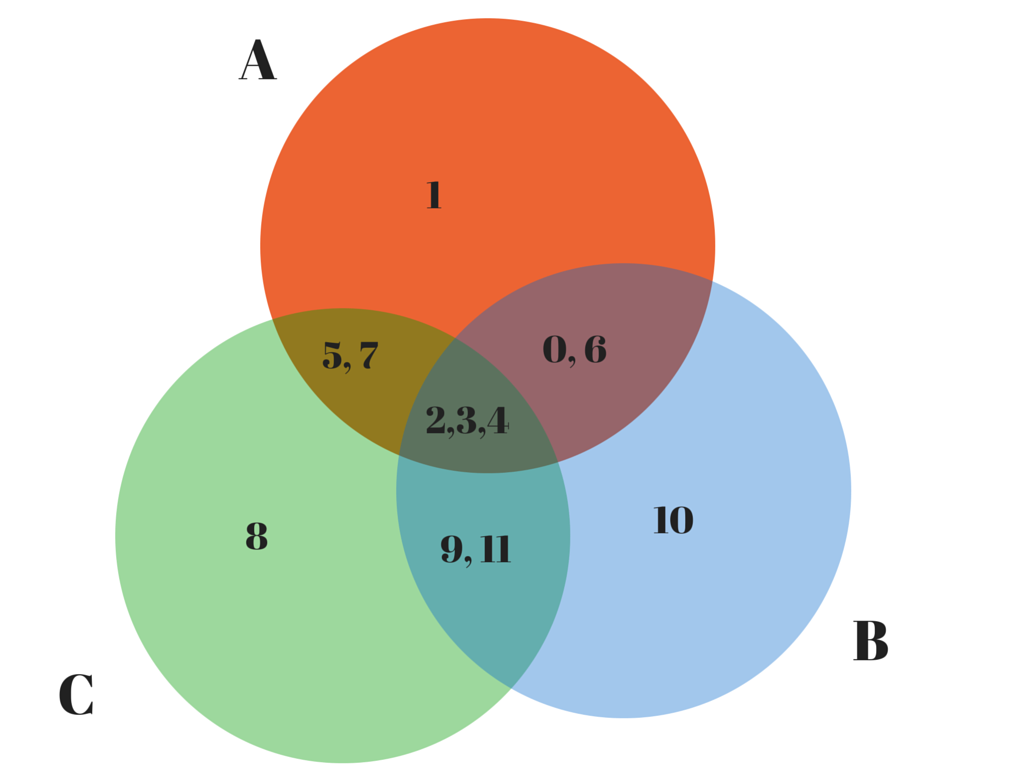
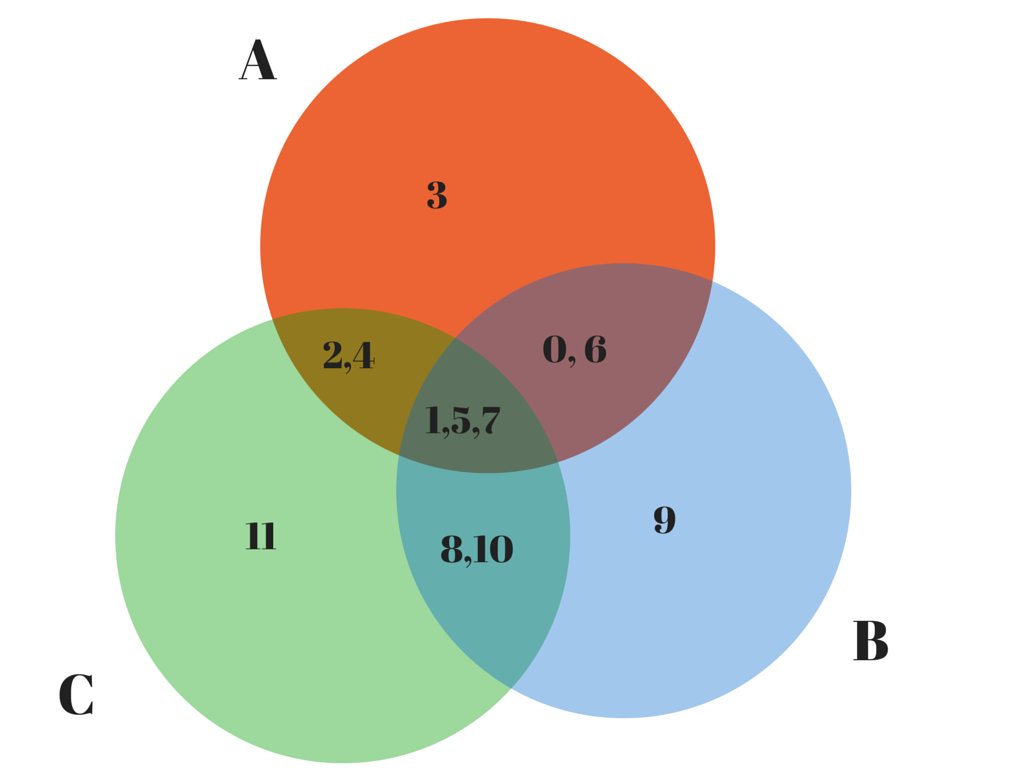
Update documentation to reflect permuted solution.

diff --git a/README.md b/README.md
@@ -17,27 +17,22 @@ that function against all 24 possible configurations.
 
 The solution documented in solution.go is a very pleasing solution.
 
-Unlike the other attempts, this solution only requires 3 weighings and these weighings are sufficient to discriminate the 24 different possibilities for a given input configuration.
-
-    package main
-
-    // Decide returns the identity of the counterfeit coin and what the relative
-    // weight of that coin is with respect to any other coin.
+Unlike the other attempts, this solution only requires 3 weighings and these weighings are sufficient to discriminate the 24 different possibilities for any given input configuration.
 
     var (
-        coins   = []int{0, 4, 5, 1, 7, 2, 6, 3, 11, 10, 9, 8}
         weights = []Weight{
-            light, heavy, heavy, light,
-            heavy, light, heavy, light,
-            light, heavy, light, heavy,
+            light, heavy, heavy,
+            light, heavy, light,
+            heavy, light, light,
+            heavy, light, heavy,
         }
     )
 
-    // The simplest possible solution. 3 comparisons + 2 table lookup, deals with every case.
     func decide(scale Scale) (int, Weight) {
-        a := scale.Weigh([]int{0, 1, 2, 3}, []int{4, 5, 6, 7})   // 8,9,10,11
-        b := scale.Weigh([]int{0, 6, 9, 11}, []int{2, 3, 4, 10}) // 1,5,7,8
-        c := scale.Weigh([]int{2, 4, 7, 11}, []int{3, 5, 8, 9})  // 0,1,6,10
+
+        a := scale.Weigh([]int{0, 3, 5, 7}, []int{1, 2, 4, 6})
+        b := scale.Weigh([]int{0, 6, 8, 10}, []int{1, 5, 7, 9})
+        c := scale.Weigh([]int{1, 4, 5, 8}, []int{2, 7, 10, 11})
 
         i := a*9 + b*3 + c
         o := i
@@ -45,7 +40,8 @@ Unlike the other attempts, this solution only requires 3 weighings and these wei
         if i > 12 {
             o = 26 - i
         }
-        f := coins[o-1]
+
+        f := int(o - 1)
         w := weights[o-1]
 
         if i > 12 {
@@ -55,11 +51,24 @@ Unlike the other attempts, this solution only requires 3 weighings and these wei
         return f, w
     }
 
+The following Venn diagram, which shows the intersections between the sets of cois involved in all 3 weighings, helps to provide a heuristic justification for why this set of weighings is capable of discriminating the 24 cases - each weighing involves overlapping
+set and subsets of coins and the 12 coins are evenly distributed across all sets and all intersections between all sets.
+
 <img src="venn.png"/>
 
-Some notes about the solution:
+Some observations:
 
-- 3 weighings share 3 coins {2,3,4}
+- 3 weighings share 3 coins {1,5,7}
 - each weighing shares a different 2 coins with each other weighing
 - each weighing puts one pair on the same side of the scale, and splits the other pair across both sides of the scale
 - each weighing has 3 coins that are unique to itself
+
+#Explanation
+
+If the B and C weighings are balanced, then the A weighing must be unbalanced because of the coin unique to A - namely 3.
+
+If the A and B weighings are unbalanced and the C weighing is balanced, then the cause must be a coin that is common to A and B and not shared by C, namely 0 or 6. If the A and B weighings have the same bias, then the counterfeit coin must be 0, otherwise it is 6.
+
+If the A, B and C weighings are unbalanced, then the cause must be a coin that is common to A, B and C - namely 1,5 or 7. If the A, B and C weighings have the same bias, then the counterfeit is 5. If B and C have the same bias, then the counterfeit is 1. If A and B have the same bias, then the counterfeit is 7.
+
+Symmetry arguments allow derivation of other the possible solutions - 2, 4, 8, 9, 10, 11.
